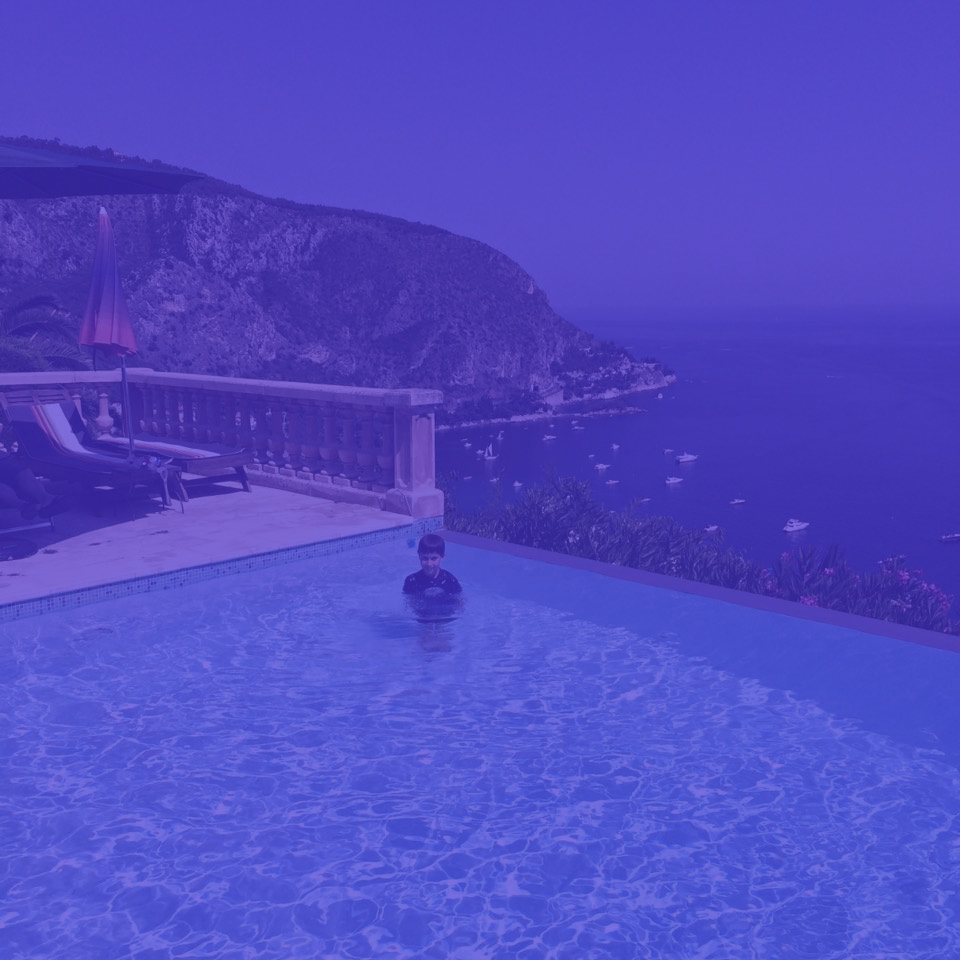
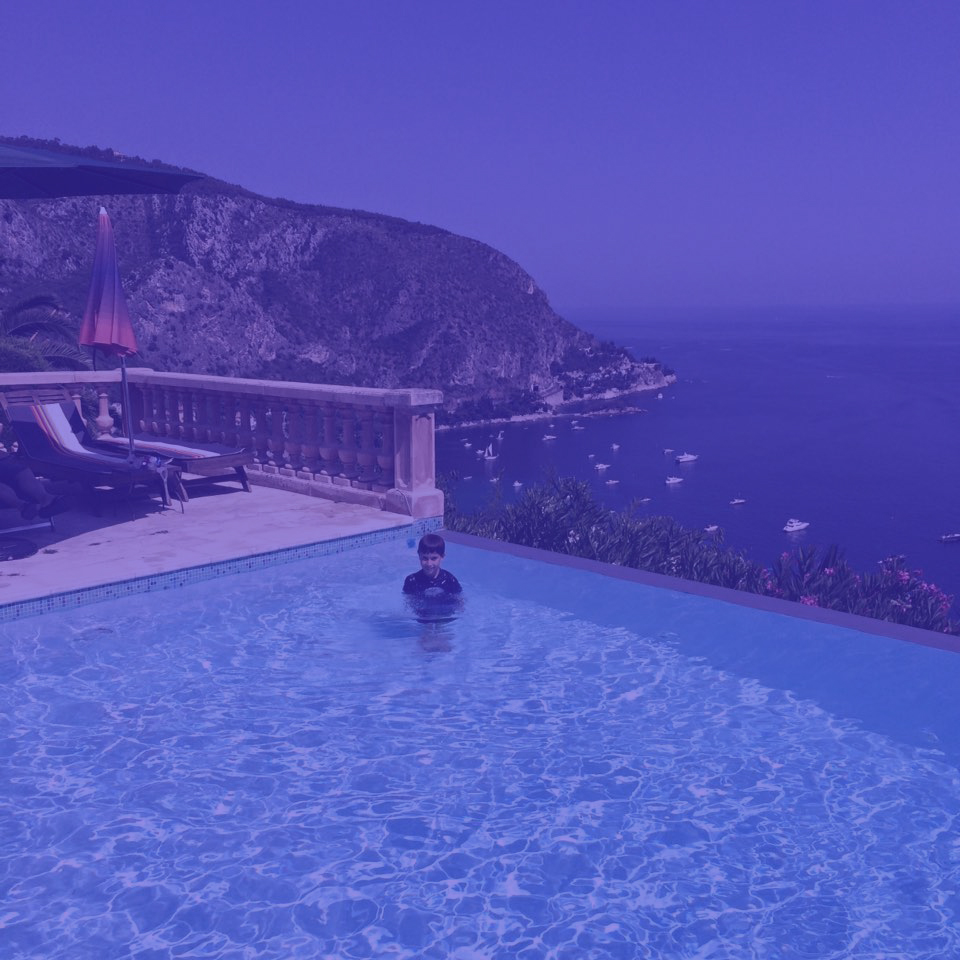
Updated homepage photo overlay colors

diff --git a/unit_6/index.html b/unit_6/index.html
@@ -19,7 +19,7 @@
 		</div>
 	</section>
 
-	<section id="two_column" class="clearfix">
+	<section id="two_column" class="clearfix overlay">
 	    <article id="left">
 			<a href="#">
 				<img src="images/2018-nyc-hamilton-homepage.jpg" alt="Statue of Alexander Hamilton on the site he had a duel with Aaron Burr">
@@ -42,7 +42,7 @@
 		</article>
 	</section>
 
-	<section id="two">
+	<section id="two" class="overlay clearfix">
 		<div>
 			<a href="#">
 				<img src="images/2018-oman-uae-homepage.jpg" alt="Arched doorway at the Grand Mosque in Muscat Oman">
@@ -68,29 +68,32 @@
 			</a>
 		</div>
 		<div>
-			<a href="#">
-				<img src="images/2016-france-homepage.jpg" alt="sunset at sacre coeur">
-				<div>
-					<h1>France</h1>
-					<h2>2016</h2>
-				</div>
-			</a>
-			<a href="#">
-				<img src="images/2016-arizona-homepage.jpg" alt="view of the grand canyon seated on a mule">
-				<div>
-					<h1>Arizona</h1>
-					<h1>Utah</h1>
-					<h1>Colorado</h1>
-					<h2>2016</h2>
-				</div>
-			</a>
-			<a href="#">
-				<img src="images/2015-france-homepage.jpg" alt="view of the mediterranean sea looking down from above">
-				<div>
-					<h1>France</h1>
-					<h2>2015</h2>
-				</div>
-			</a>
+			<div class="inner-column clearfix">
+				<a href="#">
+					<img src="images/2016-france-homepage.jpg" alt="sunset at sacre coeur">
+					<div>
+						<h1>France</h1>
+						<h2>2016</h2>
+					</div>
+				</a>
+				<a href="#">
+					<img src="images/2016-arizona-homepage.jpg" alt="view of the grand canyon seated on a mule">
+					<div>
+						<h1>Arizona</h1>
+						<h1>Utah</h1>
+						<h1>Colorado</h1>
+						<h2>2016</h2>
+					</div>
+				</a>
+			</div>
+
+				<a href="#">
+					<img src="images/2015-france-homepage.jpg" alt="view of the mediterranean sea looking down from above">
+					<div>
+						<h1>France</h1>
+						<h2>2015</h2>
+					</div>
+				</a>
 		</div>
 	</section>
 	<footer>

diff --git a/unit_6/CSS/style.css b/unit_6/CSS/style.css
@@ -92,7 +92,19 @@ a {
     height: 0;
 }
 
+.overlay a {
+	display:block;
+	position:relative;
 }
+
+.overlay a div {
+	position: absolute;
+	top:50%;
+	text-align: center;
+	left:0;
+	right:0;
+}
+
 #one {
 
 }
@@ -100,5 +112,20 @@ a {
 
 }
 #two > div {
-
+    padding: 20px;
+    float: left;
+    width: 50%;
 }
+
+.inner-column > a {
+    padding: 20px;
+    float: left;
+    width: 50%;
+}
+
+
+
+
+
+
+
